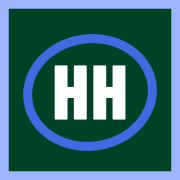
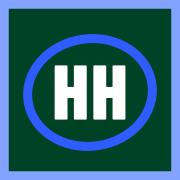
Brighter royal blue
Claude-Session: https://claude.ai/code/session_01CTMM7a8qh1pduUsusNxY5e

Changed region(s): [[0.0, 0.0, 1.0, 1.0], [0.1111, 0.1667, 0.8889, 0.8611]]

diff --git a/src/pages/home.html b/src/pages/home.html
@@ -13,32 +13,32 @@
 <svg id="hole" class="anim" data-still="3.9" viewBox="0 0 600 420" role="img" aria-label="A golf ball flies from the tee onto the green and drops into the hole">
 <defs>
 <pattern id="stripes" width="44" height="44" patternUnits="userSpaceOnUse" patternTransform="rotate(-18)"><rect width="22" height="44" fill="#0A4A2B"/><rect x="22" width="22" height="44" fill="#004225"/></pattern>
-<radialGradient id="flood" cx="0.82" cy="0.05" r="0.75"><stop offset="0" stop-color="#9DB4FF" stop-opacity=".22"/><stop offset="1" stop-color="#9DB4FF" stop-opacity="0"/></radialGradient>
+<radialGradient id="flood" cx="0.82" cy="0.05" r="0.75"><stop offset="0" stop-color="#82A3FF" stop-opacity=".22"/><stop offset="1" stop-color="#82A3FF" stop-opacity="0"/></radialGradient>
 <radialGradient id="gball" cx=".35" cy=".35" r=".7"><stop offset="0" stop-color="#fff"/><stop offset=".7" stop-color="#e3e5f7"/><stop offset="1" stop-color="#a9add0"/></radialGradient>
 </defs>
 <rect width="600" height="420" fill="url(#flood)"/>
 <!-- floodlights -->
 <g stroke="#1F6B47" stroke-width="3"><line x1="540" y1="40" x2="540" y2="210"/><line x1="60" y1="70" x2="60" y2="230"/></g>
-<rect x="526" y="30" width="28" height="12" rx="2" fill="#C7D4FF"/><rect x="47" y="60" width="26" height="11" rx="2" fill="#C7D4FF" opacity=".7"/>
+<rect x="526" y="30" width="28" height="12" rx="2" fill="#A9C0FF"/><rect x="47" y="60" width="26" height="11" rx="2" fill="#A9C0FF" opacity=".7"/>
 <!-- fairway -->
 <path d="M0 420 L0 330 C120 300 210 330 300 300 C390 270 450 300 600 262 L600 420 Z" fill="url(#stripes)" stroke="#1F6B47" stroke-width="2"/>
 <!-- bunker -->
 <path d="M300 340 C318 324 360 326 372 340 C364 354 316 356 300 340 Z" fill="#1F6B47"/>
 <!-- green -->
-<ellipse cx="468" cy="286" rx="96" ry="24" fill="#0B5233" stroke="#9DB4FF" stroke-width="2"/>
+<ellipse cx="468" cy="286" rx="96" ry="24" fill="#0B5233" stroke="#82A3FF" stroke-width="2"/>
 <ellipse cx="470" cy="286" rx="8" ry="3" fill="#00140B"/>
 <!-- flag -->
 <line x1="470" y1="286" x2="470" y2="176" stroke="#fff" stroke-width="3"/>
-<path d="M471 178 L520 192 L471 208 Z" fill="#4169E1"><animate attributeName="d" dur="1.6s" repeatCount="indefinite" values="M471 178 L520 192 L471 208 Z;M471 178 C490 182 505 196 516 196 C504 198 488 204 471 208 Z;M471 178 L520 192 L471 208 Z"/></path>
+<path d="M471 178 L520 192 L471 208 Z" fill="#2F5CFF"><animate attributeName="d" dur="1.6s" repeatCount="indefinite" values="M471 178 L520 192 L471 208 Z;M471 178 C490 182 505 196 516 196 C504 198 488 204 471 208 Z;M471 178 L520 192 L471 208 Z"/></path>
 <!-- tee -->
-<path d="M84 336 h12 l-4 18 h-4 z" fill="#4169E1"/>
+<path d="M84 336 h12 l-4 18 h-4 z" fill="#2F5CFF"/>
 <!-- flight trail -->
-<path id="flight" d="M90 330 Q 270 -30 452 282 L 469 286" fill="none" stroke="#9DB4FF" stroke-width="2.5" stroke-dasharray="6 7" pathLength="100" opacity=".85">
+<path id="flight" d="M90 330 Q 270 -30 452 282 L 469 286" fill="none" stroke="#82A3FF" stroke-width="2.5" stroke-dasharray="6 7" pathLength="100" opacity=".85">
 <animate attributeName="stroke-dashoffset" values="100;0" dur="6s" repeatCount="indefinite"/>
 <animate attributeName="opacity" dur="6s" repeatCount="indefinite" keyTimes="0;0.05;0.62;0.8;1" values="0;.85;.85;0;0"/>
 </path>
 <!-- ripple when it drops -->
-<ellipse cx="470" cy="286" rx="0" ry="0" fill="none" stroke="#4169E1" stroke-width="2.5">
+<ellipse cx="470" cy="286" rx="0" ry="0" fill="none" stroke="#2F5CFF" stroke-width="2.5">
 <animate attributeName="rx" dur="6s" repeatCount="indefinite" keyTimes="0;0.6;0.75;1" values="0;0;30;30"/>
 <animate attributeName="ry" dur="6s" repeatCount="indefinite" keyTimes="0;0.6;0.75;1" values="0;0;8;8"/>
 <animate attributeName="opacity" dur="6s" repeatCount="indefinite" keyTimes="0;0.6;0.62;0.78;1" values="0;0;1;0;0"/>
@@ -48,7 +48,7 @@
 <animateMotion dur="6s" repeatCount="indefinite" keyPoints="0;0;0.96;1;1" keyTimes="0;0.06;0.52;0.6;1" calcMode="linear"><mpath href="#flight"/></animateMotion>
 <animate attributeName="opacity" dur="6s" repeatCount="indefinite" keyTimes="0;0.6;0.61;0.97;1" values="1;1;0;0;1"/>
 </circle>
-<text x="470" y="160" text-anchor="middle" font-family="DM Mono, monospace" font-size="13" letter-spacing="3" fill="#4169E1" opacity="0">IN THE HOLE
+<text x="470" y="160" text-anchor="middle" font-family="DM Mono, monospace" font-size="13" letter-spacing="3" fill="#2F5CFF" opacity="0">IN THE HOLE
 <animate attributeName="opacity" dur="6s" repeatCount="indefinite" keyTimes="0;0.6;0.64;0.9;0.96;1" values="0;0;1;1;0;0"/>
 </text>
 </svg>

diff --git a/src/site.css b/src/site.css
@@ -1,6 +1,6 @@
 :root{
   --mid:#002B18;--card:#004225;--card2:#0B5233;--line:#1F6B47;--deep:#001F11;
-  --cyan:#9DB4FF;--cyan2:#C7D4FF;--pink:#4169E1;--white:#FFFFFF;
+  --cyan:#82A3FF;--cyan2:#A9C0FF;--pink:#2F5CFF;--white:#FFFFFF;
   --txt:#EAF2EC;--txt2:#C8D9CD;--txt3:#A3BFAD;
   --head:'Barlow Condensed',sans-serif;--mono:'DM Mono',monospace;--body:'Barlow',sans-serif;
   --wrap:1200px;
@@ -46,7 +46,7 @@ nav.main a:not(.btn):hover::after,nav.main a[aria-current]::after{transform:scal
 /* buttons, with a ball that rolls in on hover */
 .btn{display:inline-flex;align-items:center;gap:10px;font-family:var(--head);font-weight:800;font-size:20px;letter-spacing:1px;text-transform:uppercase;text-decoration:none;padding:13px 26px;border-radius:4px;border:2px solid transparent;cursor:pointer;min-height:48px;transition:transform .15s}
 .btn:active{transform:translateY(1px)}
-.btn-pink{background:var(--pink);color:#fff}.btn-pink:hover{color:#fff;background:#5B7FE8}
+.btn-pink{background:var(--pink);color:#fff}.btn-pink:hover{color:#fff;background:#4D74FF}
 .btn-line{border-color:var(--cyan);color:var(--cyan);background:none}.btn-line:hover{color:var(--mid);background:var(--cyan)}
 .btn-dark{background:var(--mid);color:#fff}.btn-dark:hover{color:#fff;background:#000}
 .btn .gb{width:14px;height:14px;border-radius:50%;background:radial-gradient(circle at 35% 35%,#fff 0 40%,#d9dbf0 70%,#a9add0);box-shadow:inset -1px -1px 0 #0002;transform:translateX(-6px) rotate(0);opacity:0;transition:transform .45s cubic-bezier(.2,.8,.3,1),opacity .2s}
@@ -120,7 +120,7 @@ section.s{padding:84px 0}
 .kit{display:grid;grid-template-columns:repeat(auto-fill,minmax(200px,1fr));gap:14px}
 @media (max-width:520px){.kit{grid-template-columns:repeat(2,minmax(0,1fr));gap:10px}.kit a{font-size:17px;padding:14px 12px;gap:10px}.kit svg{width:26px;height:26px;flex-basis:26px}}
 .kit a{display:flex;align-items:center;gap:14px;padding:18px 18px;border:1.5px solid var(--cyan);border-radius:4px;color:#fff;text-decoration:none;font-family:var(--head);font-weight:600;font-size:21px;letter-spacing:.5px;text-transform:uppercase;transition:background .2s}
-.kit a:hover{background:#9DB4FF14;color:#fff}
+.kit a:hover{background:#82A3FF14;color:#fff}
 .kit svg{width:34px;height:34px;flex:0 0 34px;stroke:var(--cyan);fill:none;stroke-width:2;stroke-linecap:round;stroke-linejoin:round;transform-origin:50% 8%;transition:transform .5s cubic-bezier(.3,1.6,.5,1)}
 .kit a:hover svg{transform:rotate(-28deg)}
 
@@ -279,7 +279,7 @@ footer .legal{flex:1 1 100%;font-family:var(--mono);font-size:12.5px;color:var(-
 .pull{margin:8px 0;padding:22px 26px;border-left:4px solid var(--pink);background:var(--card);border-radius:0 6px 6px 0}
 .pull p{font-size:19px;color:#fff;font-style:italic}
 .pull footer{background:none;border:0;margin-top:10px;font-family:var(--mono);font-size:13px;color:var(--cyan)}
-.kit a[aria-current]{background:#9DB4FF26}
+.kit a[aria-current]{background:#82A3FF26}
 
 @media (prefers-reduced-motion:reduce){
   *,*::before,*::after{animation:none!important;transition:none!important;scroll-behavior:auto!important}

diff --git a/src/layout.html b/src/layout.html
@@ -23,7 +23,7 @@
 {{JSONLD}}
 </head>
 <body data-page="{{PAGE}}">
-<div class="putt" aria-hidden="true"><div class="ball"></div><svg class="cup" viewBox="0 0 12 18"><line x1="2" y1="1" x2="2" y2="18" stroke="#fff" stroke-width="1.4"/><path class="flag-wave" d="M2.5 1 L11 4 L2.5 7 Z" fill="#4169E1"/></svg></div>
+<div class="putt" aria-hidden="true"><div class="ball"></div><svg class="cup" viewBox="0 0 12 18"><line x1="2" y1="1" x2="2" y2="18" stroke="#fff" stroke-width="1.4"/><path class="flag-wave" d="M2.5 1 L11 4 L2.5 7 Z" fill="#2F5CFF"/></svg></div>
 
 <a class="sr" href="#main">Skip to content</a>
 <div class="adbar">(Ad) marks affiliate links. If you buy through one we earn a commission, at no extra cost to you. <a href="/affiliate-disclosure/">How it works</a></div>
@@ -56,7 +56,7 @@
 <nav aria-label="Footer">
 <a href="/reviews/">Reviews</a><a href="/how-we-test/">How we test</a><a href="/testers/">The testers</a><a href="/join/">Become a tester</a><a href="/submit/">Testers: hand in a card</a><a href="/about/">About</a><a href="/affiliate-disclosure/">Affiliate disclosure</a><a href="/privacy/">Privacy &amp; cookies</a><a href="mailto:hello@honesthandicap.golf">hello@honesthandicap.golf</a>
 </nav>
-<div class="nineteen"><svg viewBox="0 0 30 44" aria-hidden="true"><line x1="4" y1="2" x2="4" y2="44" stroke="#fff" stroke-width="2.5"/><path class="flag-wave" d="M5 3 L28 10 L5 18 Z" fill="#4169E1"/></svg>The 19th hole</div>
+<div class="nineteen"><svg viewBox="0 0 30 44" aria-hidden="true"><line x1="4" y1="2" x2="4" y2="44" stroke="#fff" stroke-width="2.5"/><path class="flag-wave" d="M5 3 L28 10 L5 18 Z" fill="#2F5CFF"/></svg>The 19th hole</div>
 <div class="legal">© {{YEAR}} Honest Handicap, run by Dunnworks · honesthandicap.golf · Site by <a href="https://dunnworks.io/" target="_blank" rel="noopener">Dunnworks</a></div>
 </div>
 </footer>

diff --git a/src/pages/lost.html b/src/pages/lost.html
@@ -1,5 +1,5 @@
 <div class="wrap"><div class="lost">
-<svg class="anim" data-still="1.4" viewBox="0 0 260 150" aria-hidden="true"><path d="M0 120 C60 96 120 132 180 108 C220 94 240 104 260 98 L260 150 L0 150 Z" fill="#004225"/><g stroke="#1F6B47" stroke-width="3" stroke-linecap="round"><path d="M40 118 l-6 -22 M48 116 l2 -24 M56 118 l8 -20 M150 112 l-4 -26 M160 110 l4 -24 M170 112 l10 -18"/></g><circle cx="110" cy="112" r="10" fill="#fff"><animate attributeName="cy" values="60;112;104;112" keyTimes="0;.5;.7;1" dur="1.4s" fill="freeze"/></circle><g stroke="#9DB4FF" stroke-width="3" stroke-linecap="round"><path d="M96 92 l-4 -26 M104 90 l2 -28 M118 92 l6 -24 M126 96 l10 -20"/></g></svg>
+<svg class="anim" data-still="1.4" viewBox="0 0 260 150" aria-hidden="true"><path d="M0 120 C60 96 120 132 180 108 C220 94 240 104 260 98 L260 150 L0 150 Z" fill="#004225"/><g stroke="#1F6B47" stroke-width="3" stroke-linecap="round"><path d="M40 118 l-6 -22 M48 116 l2 -24 M56 118 l8 -20 M150 112 l-4 -26 M160 110 l4 -24 M170 112 l10 -18"/></g><circle cx="110" cy="112" r="10" fill="#fff"><animate attributeName="cy" values="60;112;104;112" keyTimes="0;.5;.7;1" dur="1.4s" fill="freeze"/></circle><g stroke="#82A3FF" stroke-width="3" stroke-linecap="round"><path d="M96 92 l-4 -26 M104 90 l2 -28 M118 92 l6 -24 M126 96 l10 -20"/></g></svg>
 <div class="eyebrow">Lost ball</div>
 <h1 style="font-size:clamp(44px,6vw,72px)">That one's in the rough.</h1>
 <p style="color:var(--txt2);font-size:19px">The page you were looking for isn't here. Take a drop and play on.</p>

diff --git a/build.py b/build.py
@@ -42,13 +42,13 @@ def nicedate(d):
 
 # ---------------------------------------------------------------- shared bits of markup
 FLAG = ('<svg viewBox="0 0 22 30" aria-hidden="true"><line x1="3" y1="2" x2="3" y2="30" stroke="#fff" stroke-width="2"/>'
-        '<path class="flag-wave" d="M4 3 L20 8 L4 14 Z" fill="#4169E1"/><ellipse cx="3" cy="29" rx="3" ry="1" fill="#9DB4FF"/></svg>')
+        '<path class="flag-wave" d="M4 3 L20 8 L4 14 Z" fill="#2F5CFF"/><ellipse cx="3" cy="29" rx="3" ry="1" fill="#82A3FF"/></svg>')
 CIRCLE = '<svg viewBox="0 0 58 50" aria-hidden="true"><ellipse cx="29" cy="25" rx="26" ry="21" pathLength="100" transform="rotate(-8 29 25)"/></svg>'
 CUP = ('<span class="cupball" aria-hidden="true"><svg viewBox="0 0 22 22"><ellipse cx="11" cy="18" rx="9" ry="3" fill="#00140B" opacity=".6"/>'
        '<circle class="b" cx="11" cy="10" r="5" fill="#fff"/></svg></span>')
 TEE = ('<svg class="tee" viewBox="0 0 40 52" overflow="visible" aria-hidden="true"><g class="chip" style="transform-box:fill-box;transform-origin:center"><circle cx="20" cy="13" r="12" fill="#fff"/>'
        '<g fill="#d5d7ee"><circle cx="15" cy="9" r="1.4"/><circle cx="21" cy="7" r="1.4"/><circle cx="26" cy="11" r="1.4"/><circle cx="17" cy="15" r="1.4"/><circle cx="23" cy="16" r="1.4"/></g></g>'
-       '<path d="M12 25 h16 l-6 6 v18 h-4 v-18 z" fill="#4169E1"/></svg>')
+       '<path d="M12 25 h16 l-6 6 v18 h-4 v-18 z" fill="#2F5CFF"/></svg>')
 
 KIT = [  # slug, name, plural for page titles, icon path(s)
     ("drivers", "Drivers &amp; woods", "driver and fairway wood", '<path d="M24 3 L13 25"/><path d="M5 26 c-1 5 2 6 7 6 h7 c4 0 4-4 1-6 z"/>'),
